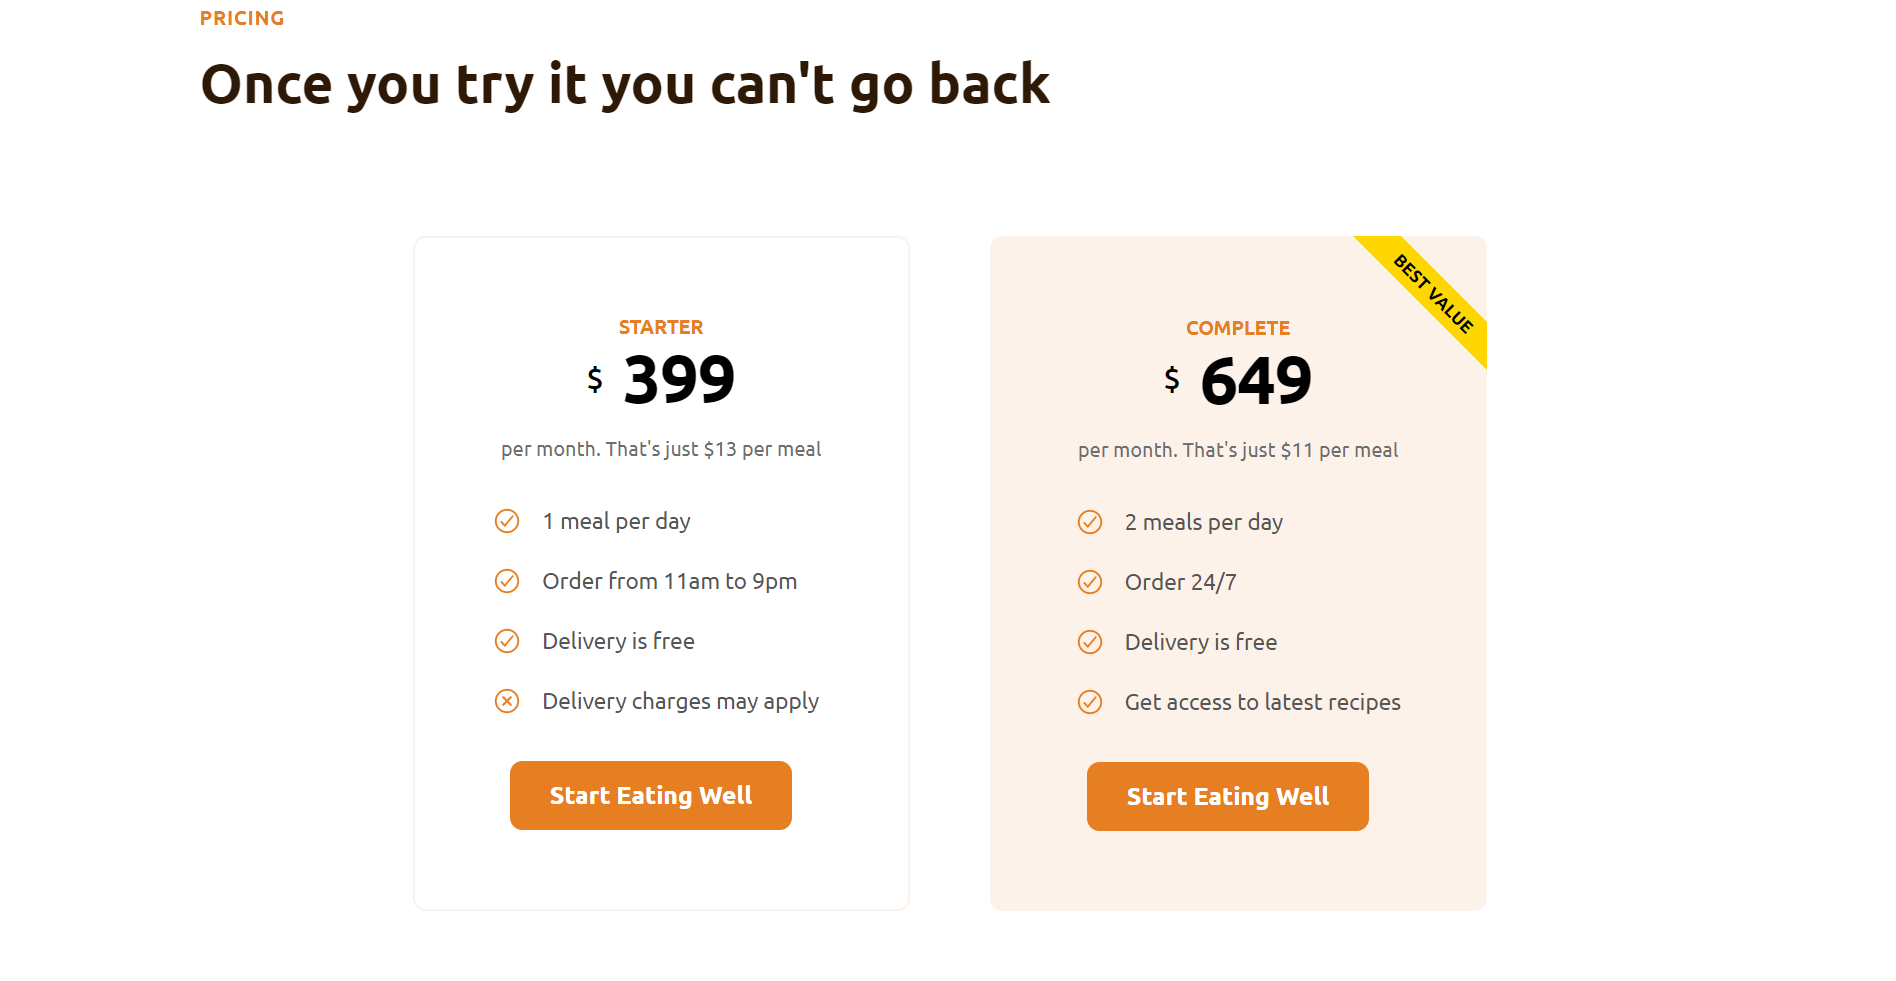
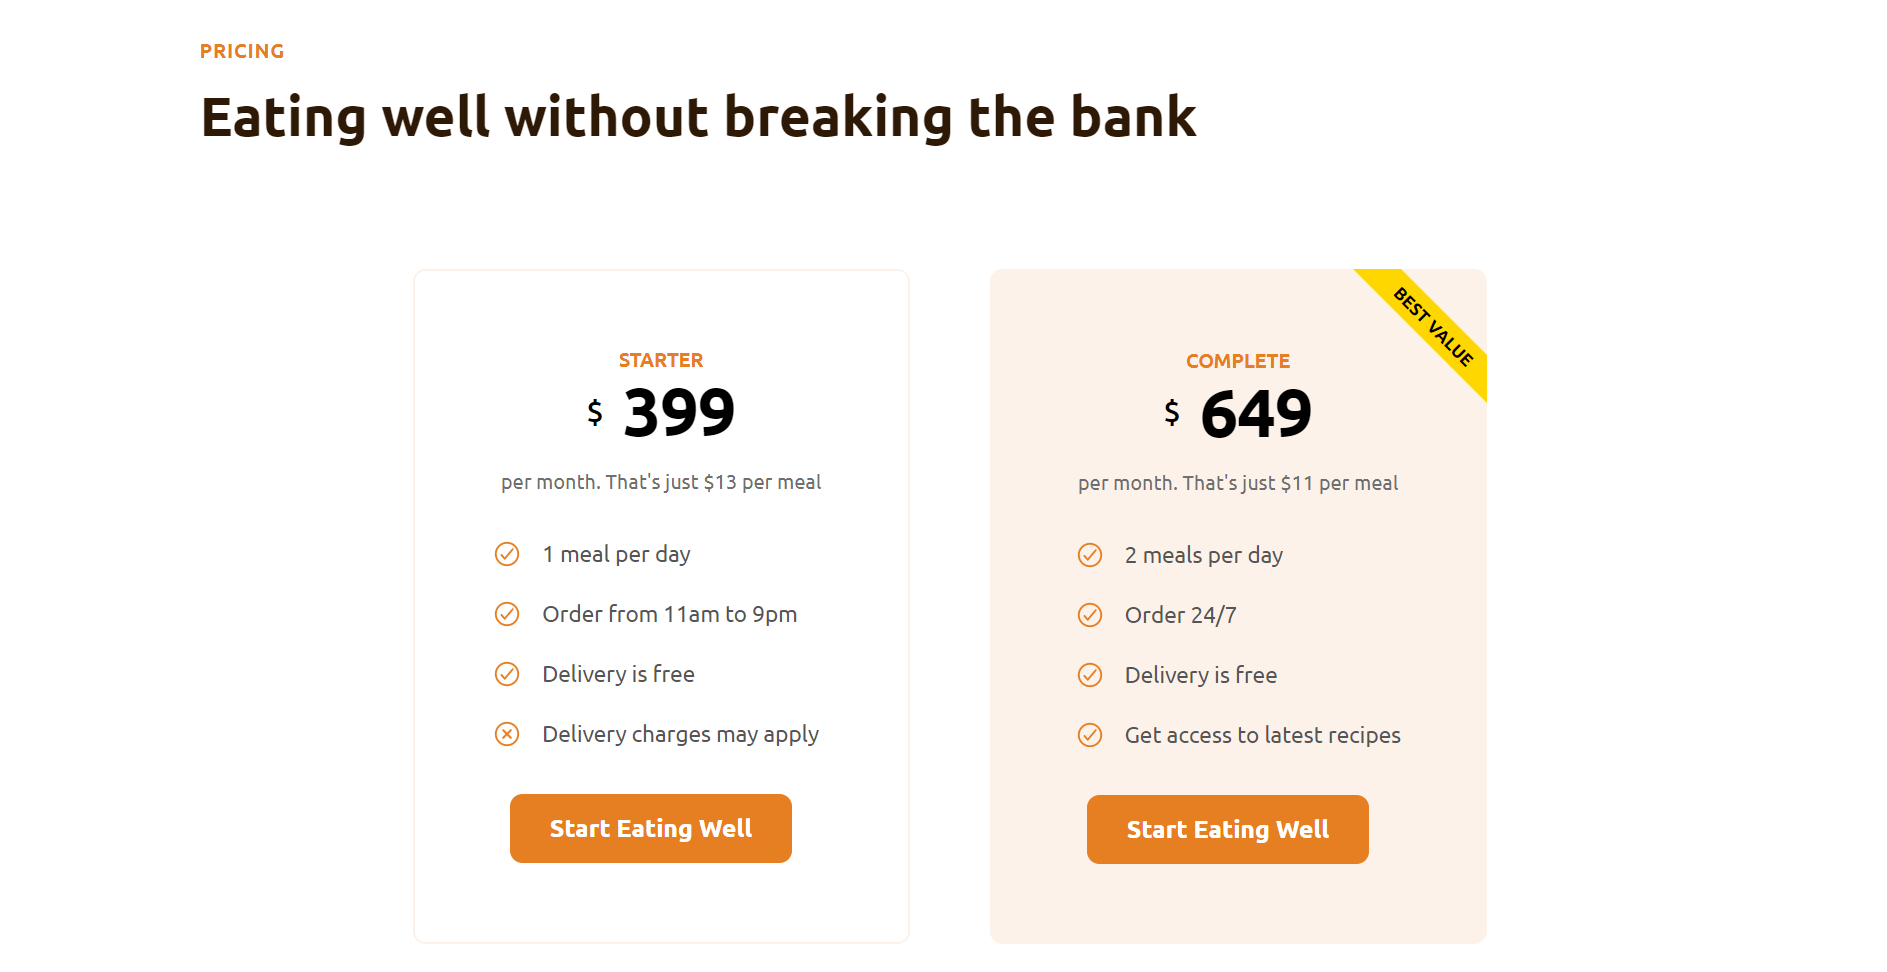
Day6 Building the features section

diff --git a/index.html b/index.html
@@ -368,8 +368,8 @@
       </section>
       <section class="Section-price container">
         <p class="sub-heading">Pricing</p>
-        <h2>Once you try it you can't go back</h2>
-        <div class="grid grid--2-col grid--2col-bt-margin">
+        <h2>Eating well without breaking the bank</h2>
+        <div class="grid grid--2-col">
           <div class="price-panel price-panel-starter">
             <div class="price-panel-intro">
               <p class="price-name">starter</p>
@@ -459,11 +459,47 @@
             </div>
           </div>
         </div>
+        <div class="price-extra-info center-content">
+          <aside>
+            ⃰ Prices include all applicable taxes. Users can cancel at any time.
+          </aside>
+        </div>
         <div class="features grid grid--4-col">
-          <div>feature1</div>
-          <div>feature2</div>
-          <div>feature3</div>
-          <div>feature4</div>
+          <div class="feature">
+            <ion-icon name="infinite-outline" class="feature-icon"></ion-icon>
+            <p class="feature-title">Never cook again</p>
+            <p class="feature-details">
+              Our subscriptions cover 365 days per year, even including major
+              holidays.
+            </p>
+          </div>
+          <div class="feature">
+            <ion-icon name="nutrition-outline" class="feature-icon"></ion-icon>
+
+            <p class="feature-title">Local and organic</p>
+            <p class="feature-details">
+              Our cooks only use local, fresh, and organic products to prepare
+              your meals
+            </p>
+          </div>
+          <div class="feature">
+            <ion-icon name="earth-outline" class="feature-icon"></ion-icon>
+
+            <p class="feature-title">No waste</p>
+            <p class="feature-details">
+              All our partners only use reusable containers to package all your
+              meals.
+            </p>
+          </div>
+          <div class="feature">
+            <ion-icon name="pause-outline" class="feature-icon"></ion-icon>
+
+            <p class="feature-title">Pause anytime</p>
+            <p class="feature-details">
+              Going on vacation? Just pause your subscription, and we refund
+              unused days.
+            </p>
+          </div>
         </div>
       </section>
     </main>

diff --git a/css/style.css b/css/style.css
@@ -573,3 +573,27 @@ blockquote {
 .grid--2col-bt-margin {
   margin-bottom: 6.4rem;
 }
+
+.feature-icon {
+  width: 3.2rem;
+  height: 3.2rem;
+  padding: 1rem;
+  border-radius: 50%;
+  color: #e67e22;
+  background-color: #fdf2e9;
+}
+.feature-title {
+  font-size: 2.4rem;
+  line-height: 1.8;
+  font-weight: 700;
+}
+.feature-details {
+  font-size: 1.6rem;
+  color: #555;
+}
+
+.price-extra-info {
+  font-size: 1.6rem;
+  color: #666;
+  margin: 4.8rem 0 6.4rem 0;
+}

diff --git a/README.md b/README.md
@@ -25,3 +25,4 @@
 ## phase6 price-panel section
 
 ![price-panel](/project-phases-snaps/price-panel.png)
+![feature](/project-phases-snaps/features.png)
